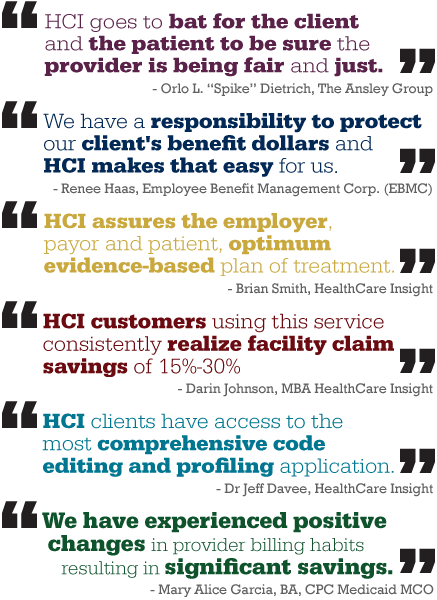
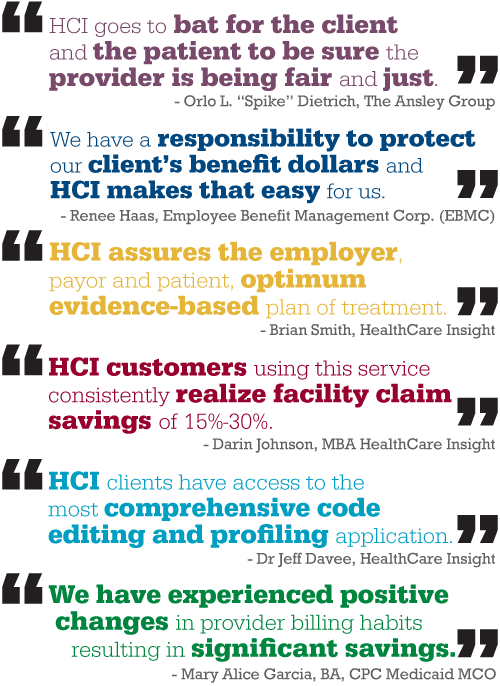
More tweaks from micas list

diff --git a/public/stylesheets/application.css b/public/stylesheets/application.css
@@ -81,7 +81,8 @@ h4 {
   font-size: 118%;
 }
 h5 {
-  
+  color:#666666;
+  font-size:110%;
 }
 h3 a, h4 a {
   font-size: 100%;
@@ -769,11 +770,11 @@ img.inner_banner {
   float: left;
 }
 .contact_banner_text_wrap, .contact_thank_you_text_wrap {
-  position: absolute;
-  bottom: 60px;
-  left: 60px;
-  width: 300px;
-  font-size: 130%;
+  bottom:75px;
+  font-size:130%;
+  left:60px;
+  position:absolute;
+  width:335px;
 }
 .contact_thank_you_text_wrap {
   width:425px;
@@ -865,24 +866,24 @@ ul.index_sector_links li h2 {
 }
 .sector_link_public {
   text-indent: -1000em;
-  background: url('../images/sector_links.png') 0px -57px no-repeat;
+  background: url('../images/sector_links.png') -245px -57px no-repeat;
 }
 .sector_link_public:hover {
-  background: url('../images/sector_links.png') -245px -57px no-repeat;
+  background: url('../images/sector_links.png') -0px -57px no-repeat;
 }
 .sector_link_private {
   text-indent: -1000em;
-  background: url('../images/sector_links.png') 0px -114px no-repeat;
+  background: url('../images/sector_links.png') -245px -114px no-repeat;
 }
 .sector_link_private:hover {
-  background: url('../images/sector_links.png') -245px -114px no-repeat;
+  background: url('../images/sector_links.png') -0px -114px no-repeat;
 }
 .sector_link_workers_comp {
   text-indent: -1000em;
-  background: url('../images/sector_links.png') 0px -171px no-repeat;
+  background: url('../images/sector_links.png') -245px -171px no-repeat;
 }
 .sector_link_workers_comp:hover {
-  background: url('../images/sector_links.png') -245px -171px no-repeat;
+  background: url('../images/sector_links.png') -0px -171px no-repeat;
 }
 .circle_button {
   width: 40px;
@@ -1170,7 +1171,7 @@ ul.service_bullets li {
 .problem_box p {
   position: relative;
   margin-left: 15px;
-  width: 250px;
+  width: 260px;
 }
 .graph_box {
   bottom: 20px;
@@ -1455,6 +1456,7 @@ div.right div.milestone_inner_wrap {
   margin:2px 0;
   width:20px;
 }
+/******Contact Us Page********/
 .contact_block_wrap {
   float: left;
 }
@@ -1480,6 +1482,46 @@ div.right div.milestone_inner_wrap {
 .contact_location p {
   font-size: 100%;
 }
+/******Social Media Page********/
+.social_media_big_links_wrap {
+  border: 1px solid #cdcdcd;
+}
+.social_media_big_links {
+  width: 133px;
+  padding: 10px;
+  text-align: center;
+  float: left; 
+}
+.big_social_icon {
+  display: block;
+  margin: 5px auto;
+  width: 90px;
+  height: 90px;
+}
+.big_social_icon a {
+  text-indent: -3000em;
+  width: 90px;
+  height: 90px;
+  display: block;
+}
+.big_social_icon.facebook a {
+  background: url('../images/social_icons/big_social_icons.png') 0px 0px no-repeat;
+}
+.big_social_icon.youtube a {
+  background: url('../images/social_icons/big_social_icons.png') 0px -90px no-repeat;
+}
+.big_social_icon.twitter a {
+  background: url('../images/social_icons/big_social_icons.png') 0px -180px no-repeat;
+}
+.big_social_icon.shcf a {
+  background: url('../images/social_icons/big_social_icons.png') 0px -270px no-repeat;
+}
+.big_social_icon.linkedin a {
+  background: url('../images/social_icons/big_social_icons.png') 0px -360px no-repeat;
+}
+.big_social_icon.profiler a {
+  background: url('../images/social_icons/big_social_icons.png') 0px -450px no-repeat;
+}
 /******About Us Page********/
 .about_us_box_image_wrap {
   border:1px solid #DEDEDE;
@@ -1500,21 +1542,34 @@ div.right div.milestone_inner_wrap {
 .box_6 {
   background: url('../images/hci_index_box_images.png') 0px -500px no-repeat;
 }
-.accredidation_links {
+.accredidation_links, .accredidation_links_small {
   width: 460px;
   position: relative;
   float: left;
 }
-.accredidation_links li {
+.accredidation_links_small {
+  margin-left:12px;
+  margin-top:30px;
+  width:273px;
+}
+.accredidation_links li, .accredidation_links_small li {
   width: 90px;
   height: 72px;
   float: left;
 }
-.accredidation_links li a {
+.accredidation_links_small li {
+  width: 50px;
+  height: 40px;
+}
+.accredidation_links li a, .accredidation_links_small li a {
   display: block;
   width: 90px;
   height: 72px;
   text-indent: -3000em;
+}
+.accredidation_links_small li a {
+  width: 50px;
+  height: 40px;
 }
 .accredidation_links li a.accredidation_ahip {
   background: transparent url('../images/accredidations_large_icons.jpg') no-repeat;
@@ -1530,6 +1585,21 @@ div.right div.milestone_inner_wrap {
 }
 .accredidation_links li a.accredidation_nadp {
   background: transparent url('../images/accredidations_large_icons.jpg') 0px -288px no-repeat;
+}
+.accredidation_links_small li a.accredidation_ahip {
+  background: transparent url('../images/accredidations_small_icons.jpg') no-repeat;
+}
+.accredidation_links_small li a.accredidation_urac1 {
+  background: transparent url('../images/accredidations_small_icons.jpg') 0px -40px no-repeat;
+}
+.accredidation_links_small li a.accredidation_urac2 {
+  background: transparent url('../images/accredidations_small_icons.jpg') 0px -80px no-repeat;
+}
+.accredidation_links_small li a.accredidation_nhcaa {
+  background: transparent url('../images/accredidations_small_icons.jpg') 0px -120px no-repeat;
+}
+.accredidation_links_small li a.accredidation_nadp {
+  background: transparent url('../images/accredidations_small_icons.jpg') 0px -160px no-repeat;
 }
 .apply_sub_header {
   float:left;
@@ -1773,6 +1843,7 @@ p.works {
   margin-top: 0px;
 }
 .resource_video_section {
+  border: 1px solid #cdcdcd;
   text-align: center;
 }
 .resource_video_header {
@@ -1783,9 +1854,10 @@ p.works {
 .resource_video_wrapper {
   margin: 0px auto;
   overflow: hidden;
+  height: 480px;
 }
 .resource_video_wrapper embed {
-  margin-top: -40px;
+  margin-top: -10px;
 }
 .resource_article {
   position: relative;
@@ -1932,29 +2004,31 @@ p.sector_big_text {
   margin: 15px 0px;
 }
 .service_quote {
-  height: 125px;
+  position: relative;
+  height: 90px;
 }
 .service_quote p {
-  margin: 0px 50px 10px 0px;
-  width: 437px;
-  height: 100px;
-  float: right;
+  position: absolute;
+  right: 25px;
+  top: -55px;
+  width: 525px;
+  height: 115px;
   text-indent: -3000em;
 }
 .physicianclaim-insight_quote{
-  background: transparent url('../images/quotes/service_quotes.png') 0px -500px no-repeat;
+  background: transparent url('../images/quotes/service_quotes.png') 0px -572px no-repeat;
 }
 .dentalclaim-insight_quote {
-   background: transparent url('../images/quotes/service_quotes.png') 0px -400px no-repeat;
+   background: transparent url('../images/quotes/service_quotes.png') 0px -457px no-repeat;
 }
 .facilityclaim-insight_quote {
-  background: transparent url('../images/quotes/service_quotes.png') 0px -300px no-repeat;
+  background: transparent url('../images/quotes/service_quotes.png') 0px -340px no-repeat;
 }
 .oncologyclaim-insight_quote {
-  background: transparent url('../images/quotes/service_quotes.png') 0px -200px no-repeat;
+  background: transparent url('../images/quotes/service_quotes.png') 0px -227px no-repeat;
 }
 .pharmaclaim-insight_quote {
-  background: transparent url('../images/quotes/service_quotes.png') 0px -100px no-repeat;
+  background: transparent url('../images/quotes/service_quotes.png') 0px -113px no-repeat;
 }
 .visionclaim-insight_quote {
   background: transparent url('../images/quotes/service_quotes.png') 0px 0px no-repeat;
